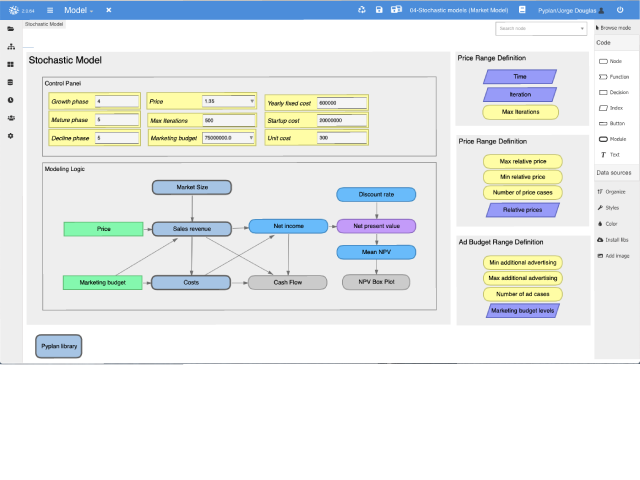
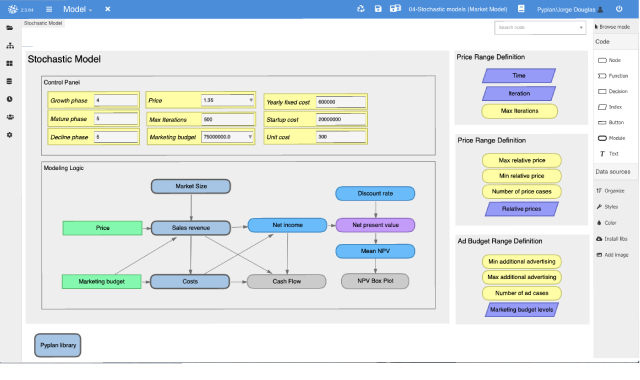
add demo image

diff --git a/docs/index.md b/docs/index.md
@@ -17,9 +17,14 @@ Among its most prominent features you will find:
 Screenshots
 ===========
 
+Influence Diagram
 ![Influence Diagram](assets/img/diagram.png) 
 
+Interfaces (dashboards)
 ![Interfaces](assets/img/interface.png)
+
+Include lot of tutorials,examples and demos
+![Demos](assets/img/demos.png)
 
 Requirements
 ============
